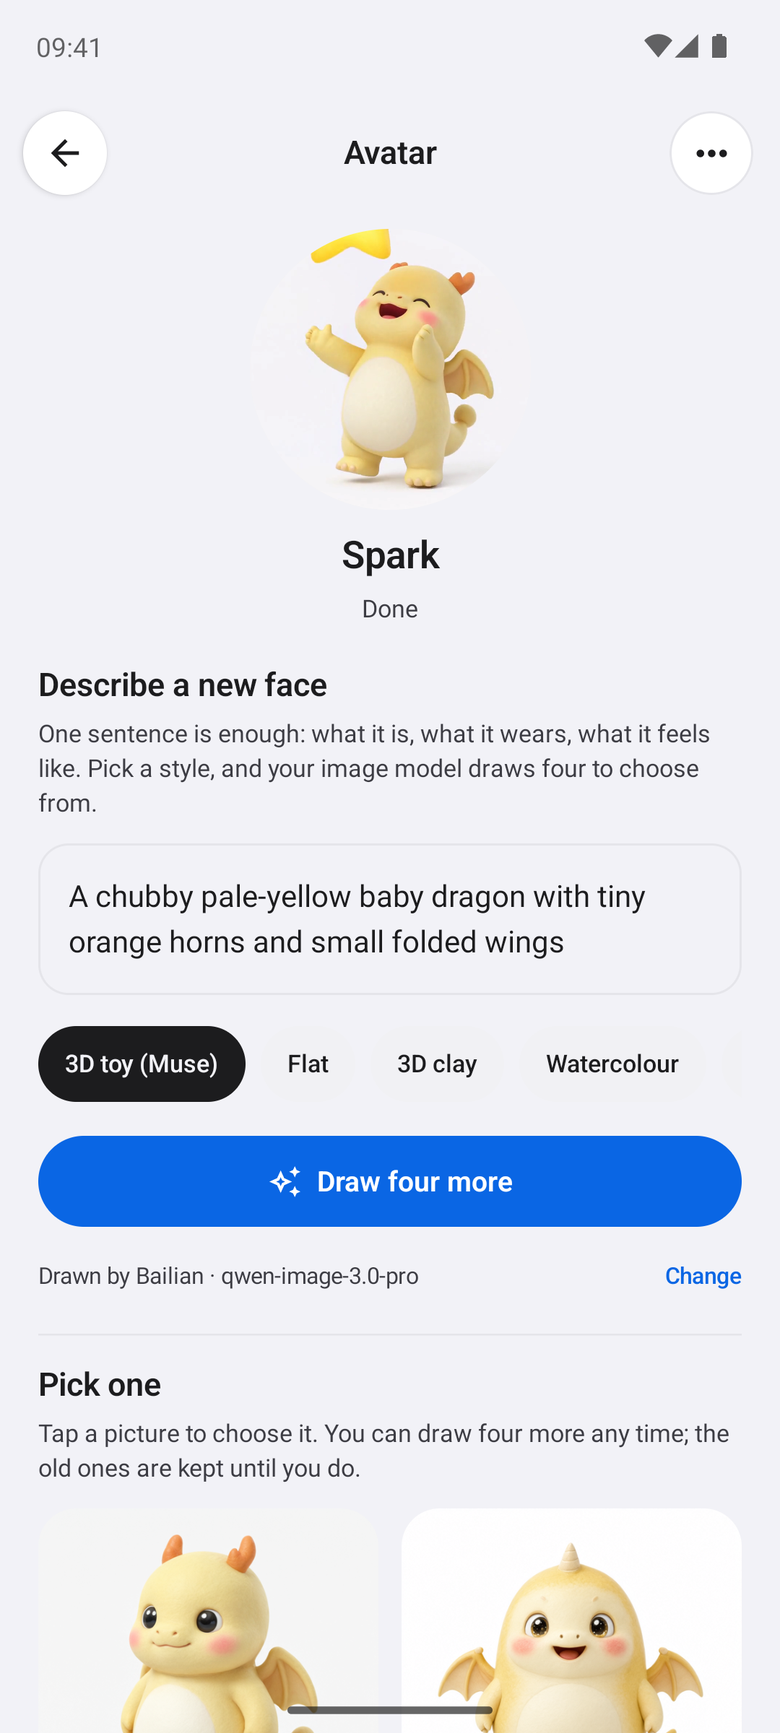
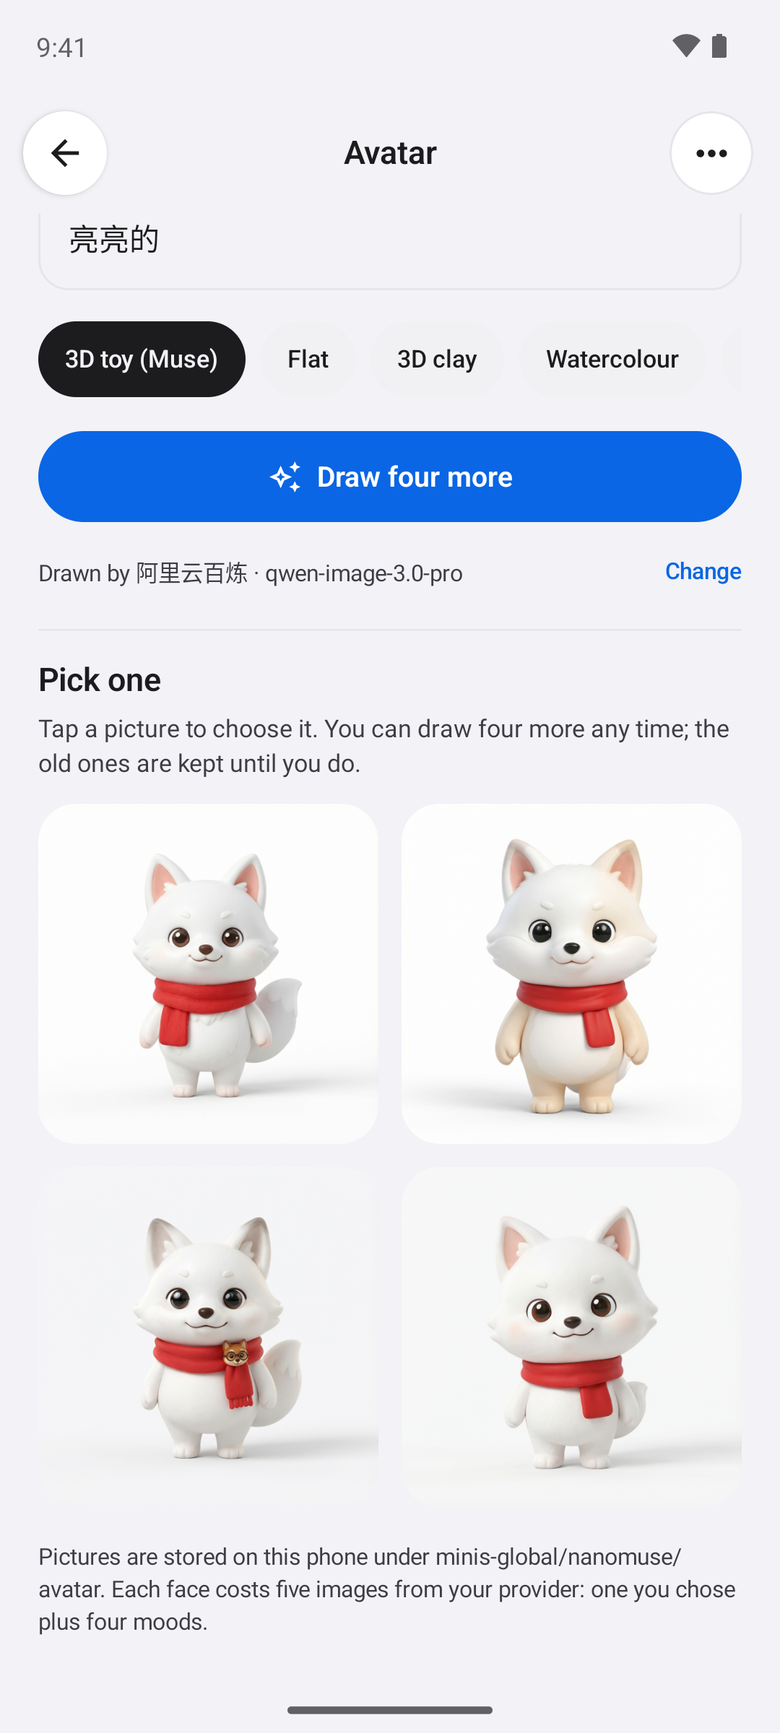
README: one positioning line, no status column, own-Muse base, refreshed shots
Both READMEs open on the full positioning sentence alone — no "Android today"
tail — and the four-pillar table loses its status column; the Fully open row
says the repository is a base to build your own Muse on. The comparison is now
"Compared with Muse and OpenMinis" / 「和 Muse、OpenMinis 的对比」 with the
anchors updated. Avatar copy stops counting takes and says look instead of
face outside the release history.

Screenshots: the approval and avatar shots are retaken on the current build
with the default dragon and the agent called nanoMuse (avatar page mid-pick, a
white fox in a red scarf); the Chinese README gets its own set under
docs/screenshots/zh/ including feed and goals in Chinese.

diff --git a/README.md b/README.md
@@ -4,7 +4,7 @@
 
 <h1 align="center">nanoMuse</h1>
 
-<p align="center">A fully open-source, Muse-style personal agent for every device you own. Android today.</p>
+<p align="center">A fully open-source, Muse-style personal agent for every device you own.</p>
 
 <div align="center">
   <p>
@@ -22,38 +22,38 @@
   </p>
 </div>
 
-nanoMuse is a fully open-source, Muse-style personal agent for every device you own: one agent with a name and a look of its own, like Meta's [Muse](https://about.fb.com/news/2026/09/introducing-muse-personal-ai-agent/), that does things instead of answering questions, keeps working while the app is closed, remembers you, and stops to ask before anything you could not undo. Today it is an Android app that runs the whole agent **on the phone**: a Linux root file system, a shell, a browser, MCP, skills and scheduled tasks inside the APK, with a model you bring. It has hands for the apps that never had an API — the phone's own screen, with your permission — and reaches your computer: say it on the phone, it gets done there. A desktop app, iOS, a self-hosted web version and glasses come next. No server, no account, GPL-3.0.
+nanoMuse is a fully open-source, Muse-style personal agent for every device you own: one agent with a name and a look of its own, like Meta's [Muse](https://about.fb.com/news/2026/09/introducing-muse-personal-ai-agent/), that does things instead of answering questions, keeps working while the app is closed, remembers you, and stops to ask before anything you could not undo. The Android app runs the whole agent **on the phone**: a Linux root file system, a shell, a browser, MCP, skills and scheduled tasks inside the APK, with a model you bring. It has hands for the apps that never had an API — the phone's own screen, with your permission — and reaches your computer: say it on the phone, it gets done there. A desktop app, iOS, a self-hosted web version and glasses come next. No server, no account, GPL-3.0 — and a base you can build your own Muse on.
 
 <p align="center">
   <img src="https://raw.githubusercontent.com/nano-muse/nanoMuse/main/docs/avatar-moods.png" width="88%" alt="The same small dragon in five states: at rest, working, waiting, pleased, sorry">
 </p>
 
 <p align="center">
-  <img src="https://raw.githubusercontent.com/nano-muse/nanoMuse/main/docs/screenshots/chat-approval.png" width="23%" alt="Chat: the agent stops before deleting files and asks">
+  <img src="https://raw.githubusercontent.com/nano-muse/nanoMuse/main/docs/screenshots/chat-approval.png" width="23%" alt="Chat: before deleting in the workspace, the agent stops and asks — once, this chat, always for the workspace, or deny">
   <img src="https://raw.githubusercontent.com/nano-muse/nanoMuse/main/docs/screenshots/feed.png" width="23%" alt="Feed: posts written for you this morning">
   <img src="https://raw.githubusercontent.com/nano-muse/nanoMuse/main/docs/screenshots/goals.png" width="23%" alt="Goals: tracked on a schedule, with routines">
-  <img src="https://raw.githubusercontent.com/nano-muse/nanoMuse/main/docs/screenshots/avatar.png" width="23%" alt="Avatar: describe a look, your image model draws four, pick one">
+  <img src="https://raw.githubusercontent.com/nano-muse/nanoMuse/main/docs/screenshots/avatar.png" width="23%" alt="Avatar: describe a look, your image model draws it, pick the one you like">
 </p>
 
 ## Why nanoMuse
 
-Four things define the project. All four are in the app today.
+Four things define the project.
 
-| | | |
-|---|---|---|
-| **Muse-style** | today | One agent, not a toolbox: a name and a look of its own, a first conversation, a feed written for you, goals worked on in the background, memory you can read and edit, an approval before anything you could not undo. |
-| **Fully open** | today | GPL-3.0-or-later, the whole repository. No closed component, no account, no server you have to trust, no model you have to use; every release is built from its tag and installed by hand. Muse, 豆包 and 千问 are products you are given; nanoMuse is one you own. |
-| **Any app, API or not** | today | Most of a day in China runs through apps that never had an API. The agent climbs a ladder — a skill, a CLI or an MCP server first, then a page fetched with your login, then the in-app browser, and, when you allow it, the device's own screen, looking and tapping the way you would — with the same approvals before paying, sending or deleting. Off by default. Since 0.1.12, and tried on a phone. |
-| **Every device** | today | One agent, and every device you own is a pair of hands and a front door: say it on the phone, it happens on your PC; say it to your glasses, it happens on both. The phone drives your computer since 0.1.13; a desktop app, iOS, the web on a machine of your own and glasses follow. |
+| | |
+|---|---|
+| **Muse-style** | One agent, not a toolbox: a name and a look of its own, a first conversation, a feed written for you, goals worked on in the background, memory you can read and edit, an approval before anything you could not undo. |
+| **Fully open** | GPL-3.0-or-later, the whole repository. No closed component, no account, no server you have to trust, no model you have to use; every release is built from its tag and installed by hand. Muse, 豆包 and 千问 are products you are given; nanoMuse is one you own — and a base to build your own Muse on: rename it, redraw it, rewrite its personality, wire in your own models and tools. |
+| **Any app, API or not** | Most of a day in China runs through apps that never had an API. The agent climbs a ladder — a skill, a CLI or an MCP server first, then a page fetched with your login, then the in-app browser, and, when you allow it, the device's own screen, looking and tapping the way you would — with the same approvals before paying, sending or deleting. Off by default. |
+| **Every device** | One agent, and every device you own is a pair of hands and a front door: say it on the phone, it happens on your PC; say it to your glasses, it happens on both. The phone drives your computer already; a desktop app, iOS, the web on a machine of your own and glasses follow. |
 
-How this compares with Muse and with OpenMinis, the runtime the app is built on: [below](#compared-with-meta-muse-and-openminis). The plan and its reasoning: [docs/roadmap.md](docs/roadmap.md).
+How this compares with Muse and with OpenMinis, the runtime the app is built on: [below](#compared-with-muse-and-openminis). The plan and its reasoning: [docs/roadmap.md](docs/roadmap.md).
 
 ## Install
 
 1. Download `nanoMuse-<version>-arm64.apk` from the [latest release](https://github.com/nano-muse/nanoMuse/releases/latest) — Android 8.0 or newer, a 64-bit phone. Verify with `sha256sum -c nanoMuse-<version>-arm64.apk.sha256` if you like.
 2. Open it. Android asks once to allow the install; every version is signed with the same key, so updates install over the previous one and keep your data.
 3. Add a model: any OpenAI-compatible endpoint with your own key, or one of the OAuth sign-ins the app ships with. The first conversation asks what to call you and lets the agent pick its own name.
-4. Optional — *Settings → Image & video models*: an image model (qwen-image-3.0 on Alibaba Cloud Model Studio, gpt-image-1, or any provider with the OpenAI images endpoint) lets the agent change its face and draw pictures; a video model (MiniMax-H3 on Model Studio) makes the face move. Muse has these built in; nanoMuse uses your own, and the agent tells you when one is missing.
+4. Optional — *Settings → Image & video models*: an image model (qwen-image-3.0 on Alibaba Cloud Model Studio, gpt-image-1, or any provider with the OpenAI images endpoint) lets the agent change its look and draw pictures; a video model (MiniMax-H3 on Model Studio) makes the look move. Muse has these built in; nanoMuse uses your own, and the agent tells you when one is missing.
 
 The app checks this repository's releases for updates. Release notes for each version are in [docs/releases/](docs/releases/) and the [CHANGELOG](CHANGELOG.md).
 
@@ -66,7 +66,7 @@ The app checks this repository's releases for updates. Release notes for each ve
 | **Keeps going** | Goals are shaped in the chat and checked on a schedule in their own conversation; routines run while the app is closed; the screen stays on while it drives the phone; at 200 steps it asks "continue?" instead of wrapping up early. |
 | **Writes you a feed** | Every morning, three to six short posts from what it knows about you and what you asked it to follow, as cards you can like, discuss in a side chat, or delete. One sentence steers it. |
 | **Remembers you** | Who it is (`SOUL.md`), what it knows about you (`USER.md`), what it remembers (`GLOBAL.md` and a diary) and when it wakes (`HEARTBEAT.md`) are files you can read and edit in the app. Bring what another assistant knew with *Import memory*. |
-| **A look of its own** | Describe one in a sentence; your image model draws four; you pick. The app poses it for every state — working, waiting, pleased, sorry — and it breathes, bobs, tilts, pops and shakes with what the agent is doing; with a video model, each state is a short looping clip. A small pale-yellow dragon, stills and clips included, is the default. |
+| **A look of its own** | Describe one in a sentence; your image model draws it; you pick the one you like. The app poses it for every state — working, waiting, pleased, sorry — and it breathes, bobs, tilts, pops and shakes with what the agent is doing; with a video model, each state is a short looping clip. A small pale-yellow dragon, stills and clips included, is the default. |
 | **Ideas and Library** | Things to ask next, from your goals and memory; and everything it made, with previews. |
 
 All of it runs on the phone; the rest of OpenMinis — the terminal, the in-app browser, MCP and skill management, model groups, token usage, the accessibility executor, shared folders — is kept and reachable from the same menus.
@@ -77,12 +77,12 @@ The app is [OpenMinis](https://github.com/OpenMinis/OpenMinis) 1.13, modified: a
 
 | Package | What |
 |---|---|
-| `ui/home`, `ui/header` | The home shell: one main chat, side chats in a drawer, the Feed · Ideas · Goals · Library bar, the header with the face, the name pill and the status line |
+| `ui/home`, `ui/header` | The home shell: one main chat, side chats in a drawer, the Feed · Ideas · Goals · Library bar, the header with the avatar, the name pill and the status line |
 | `guard` | `ShellGuard` and `BrowserGuard` classify commands and page actions; `RiskGate` stops the tool call and shows the approval card; grants are remembered per scope |
 | `goals`, `ideas`, `library` | Goals as scheduled conversations with a plan and a check-in; ideas from memory and goals; the library of what it wrote |
 | `feed`, `sysfiles` | The morning routine that writes ` ```nanomuse-feed ` blocks into `minis-global/nanomuse/feed/`, the cards, the steering sentence; the system-files pages and memory import |
 | `avatar`, `ui/avatar` | `ImageGen` on top of OpenMinis' image endpoints (`images/generations`, `images/edits`, DashScope's native edit), the studio, `AvatarStore`, and the animated `AgentAvatar` |
-| `status` | The two-level status (tool title under the face, action chips on the cards), `KeepAwake`, the last browser frame per step |
+| `status` | The two-level status (tool title under the avatar, action chips on the cards), `KeepAwake`, the last browser frame per step |
 
 Edits to upstream files are marked `// nanoMuse:`; `scripts/rebrand.py` re-applies the branding after every subtree pull. Building from source: [CONTRIBUTING.md](CONTRIBUTING.md). Your messages go only to the model you configured; files, memory and the avatar's pictures stay under the app's private storage.
 
@@ -112,7 +112,7 @@ One small version per stage, each a GitHub release with an APK. The plan and its
 
 **After that**, in order: a desktop app that is an agent of its own and a client of the phone's; iOS; the web on a machine of your own — a VM, a home server — reachable from any browser; glasses. Each device you add is one more pair of hands and one more front door for the same agent. The Python line this project started with — the agent and its Sentinel, the web app, the simulated phone — is frozen at tag [`pre-openminis`](https://github.com/nano-muse/nanoMuse/releases/tag/pre-openminis) with its docs under [docs/](docs/), and is the base of the desktop and web front doors.
 
-## Compared with Meta Muse and OpenMinis
+## Compared with Muse and OpenMinis
 
 | | Meta Muse | OpenMinis | nanoMuse |
 |---|---|---|---|
@@ -122,7 +122,7 @@ One small version per stage, each a GitHub release with an APK. The plan and its
 | Before something irreversible | The Sentinel model approves | Per-tool permissions | `RiskGate` stops the call: allow once, this chat, always for this recipient / domain / folder, or deny; passwords and codes are never typed by the agent |
 | Apps without an API | Out of reach — the VM has a browser, never your phone | An accessibility CLI (`android-a11y-cli`) the model can call on Android | The screen as a first-class hand: screenshots only, a ladder that tries APIs first, a take-over for logins, the same approvals — since 0.1.12 |
 | Other devices | Many clients of one VM; the VM does not touch your devices | The one device it is installed on | One agent across your devices: the phone drives your PC since 0.1.13 (`host/nanomuse_host.py`, paired by code), then every device, both ways |
-| Avatar | A plush figure that changes pose while it works | — | A face your image model draws and poses, a looping clip per state from your video model; a small dragon, already moving, by default |
+| Avatar | A plush figure that changes pose while it works | — | A look your image model draws and poses, a looping clip per state from your video model; a small dragon, already moving, by default |
 | Models | Meta's | Bring your own | Bring your own — a chat, an image and a video model, or one Model Studio key for all three; the OAuth sign-ins OpenMinis ships with stay |
 | Licence | Closed | GPL-3.0 | GPL-3.0-or-later, built on OpenMinis — with thanks; upstream releases can still be merged |
 
